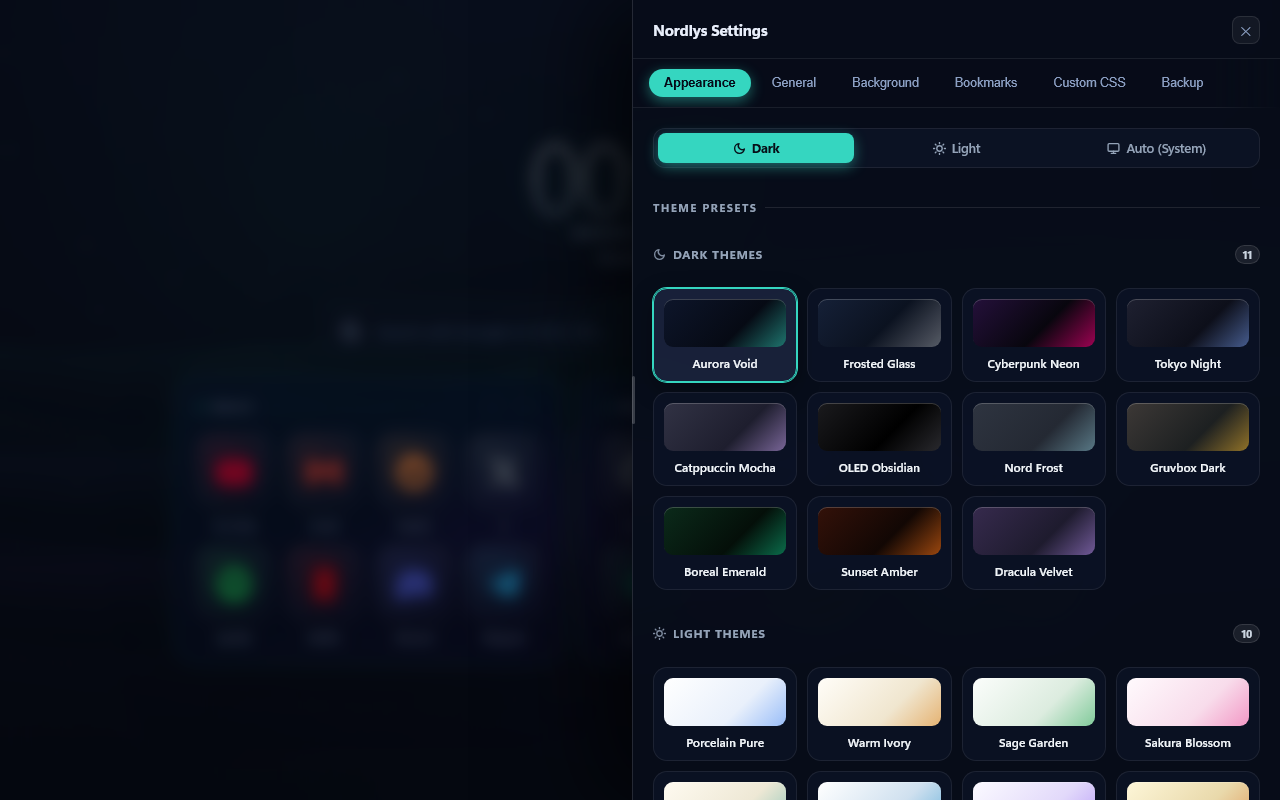
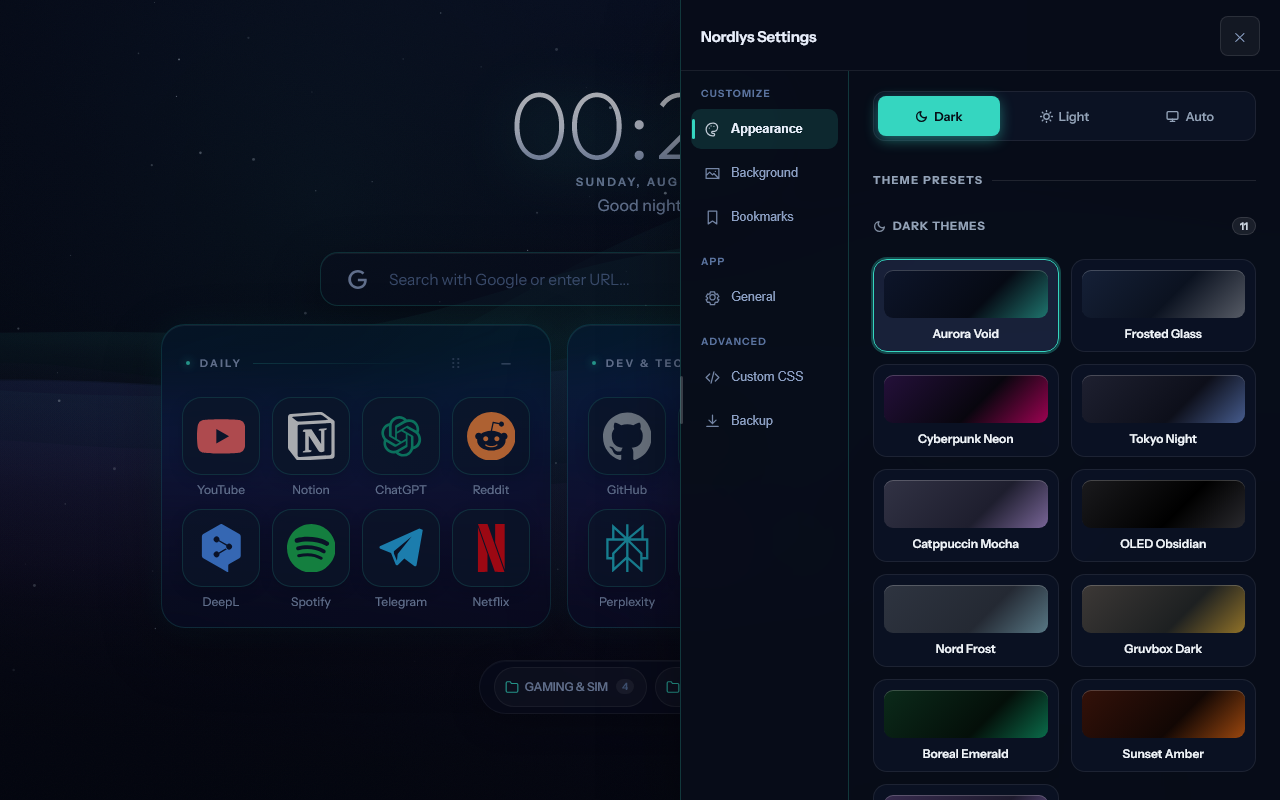
release: 2.2.0 listing, artwork and docs
Regenerates every store asset from the running extension rather than editing
last release's PNGs, so the artwork cannot claim something the product no
longer does. The old set still showed the engine dropdown and the pre-redesign
settings panel.

The listing copy moves into docs/store-listing.md as text to paste, and the
store guide points at it instead of holding a second, drifting copy. The guide
also pointed at a directory named aurora-tab that has not existed since the
rebrand.

Also shortens the colour-mode label, which wrapped to two lines and said
'(System)' next to a monitor icon, and replaces the wallpaper and video scene
placeholders, which were identical diagonal stripes that read as a broken
texture.

diff --git a/src/js/i18n.js b/src/js/i18n.js
@@ -201,7 +201,8 @@ const translations = {
     "appearance.colorMode": "Color Scheme Mode",
     "appearance.modeDark": "Dark",
     "appearance.modeLight": "Light",
-    "appearance.modeAuto": "Auto (System)",
+    "appearance.modeAuto": "Auto",
+    "appearance.modeAutoHint": "Follows your system setting",
     "appearance.cardStudioTitle": "✦ Card & Bookmark Aesthetics",
     "appearance.surfaceGlass": "Glass & Surface Material",
     "appearance.cardGlow": "Ambient Glow & Shadows",
@@ -416,7 +417,8 @@ const translations = {
     "appearance.colorMode": "Цветовая схема",
     "appearance.modeDark": "Тёмный",
     "appearance.modeLight": "Светлый",
-    "appearance.modeAuto": "Авто (Системный)",
+    "appearance.modeAuto": "Авто",
+    "appearance.modeAutoHint": "Следует настройке системы",
     "appearance.cardStudioTitle": "✦ Кастомизация карточек и закладок",
     "appearance.surfaceGlass": "Стекло и материал поверхности",
     "appearance.cardGlow": "Свечение и глубина теней",
@@ -631,7 +633,8 @@ const translations = {
     "appearance.colorMode": "Esquema de Color",
     "appearance.modeDark": "Oscuro",
     "appearance.modeLight": "Claro",
-    "appearance.modeAuto": "Automático (Sistema)",
+    "appearance.modeAuto": "Automático",
+    "appearance.modeAutoHint": "Sigue la configuración del sistema",
     "appearance.cardStudioTitle": "✦ Estética de Tarjetas y Marcadores",
     "appearance.surfaceGlass": "Cristal y Material de Superficie",
     "appearance.cardGlow": "Sombra y Brillo Ambiental",
@@ -846,7 +849,8 @@ const translations = {
     "appearance.colorMode": "Farbschema",
     "appearance.modeDark": "Dunkel",
     "appearance.modeLight": "Hell",
-    "appearance.modeAuto": "Automatisch (System)",
+    "appearance.modeAuto": "Automatisch",
+    "appearance.modeAutoHint": "Folgt der Systemeinstellung",
     "appearance.cardStudioTitle": "✦ Karten- & Lesezeichen-Design",
     "appearance.surfaceGlass": "Glas- & Oberflächenmaterial",
     "appearance.cardGlow": "Umgebungsschatten & Glanz",
@@ -1061,7 +1065,8 @@ const translations = {
     "appearance.colorMode": "Schéma de Couleur",
     "appearance.modeDark": "Sombre",
     "appearance.modeLight": "Clair",
-    "appearance.modeAuto": "Automatique (Système)",
+    "appearance.modeAuto": "Automatique",
+    "appearance.modeAutoHint": "Suit le réglage du système",
     "appearance.cardStudioTitle": "✦ Esthétique des Cartes et Signets",
     "appearance.surfaceGlass": "Matériau de Verre et Surface",
     "appearance.cardGlow": "Ombre et Lueur Ambiante",
@@ -1276,7 +1281,8 @@ const translations = {
     "appearance.colorMode": "カラースキーム",
     "appearance.modeDark": "ダーク",
     "appearance.modeLight": "ライト",
-    "appearance.modeAuto": "自動（システム）",
+    "appearance.modeAuto": "自動",
+    "appearance.modeAutoHint": "システム設定に従います",
     "appearance.cardStudioTitle": "✦ カード＆ブックマーク設定",
     "appearance.surfaceGlass": "ガラスと表面マテリアル",
     "appearance.cardGlow": "アンビエントシャドウ＆発光",
@@ -1491,7 +1497,8 @@ const translations = {
     "appearance.colorMode": "颜色方案",
     "appearance.modeDark": "深色",
     "appearance.modeLight": "浅色",
-    "appearance.modeAuto": "自动（跟随系统）",
+    "appearance.modeAuto": "自动",
+    "appearance.modeAutoHint": "跟随系统设置",
     "appearance.cardStudioTitle": "✦ 卡片与书签外观美化",
     "appearance.surfaceGlass": "玻璃与表面材质",
     "appearance.cardGlow": "环境阴影与光晕",
@@ -1706,7 +1713,8 @@ const translations = {
     "appearance.colorMode": "Renk Düzeni",
     "appearance.modeDark": "Koyu",
     "appearance.modeLight": "Açık",
-    "appearance.modeAuto": "Otomatik (Sistem)",
+    "appearance.modeAuto": "Otomatik",
+    "appearance.modeAutoHint": "Sistem ayarını izler",
     "appearance.cardStudioTitle": "✦ Kart ve Yer İşareti Tasarımı",
     "appearance.surfaceGlass": "Cam ve Yüzey Malzemesi",
     "appearance.cardGlow": "Ortam Gölgesi ve Parıltı",

diff --git a/src/css/settings.css b/src/css/settings.css
@@ -1893,12 +1893,31 @@ html[data-theme="warm-ivory"] .css-docs-list code {
     var(--nl-canvas);
 }
 .scene-preview[data-scene="solid"] { background: var(--nl-canvas); }
+/* These two slots have nothing to preview until the user supplies a file. The
+   placeholder stripes that stood here read as a broken texture and looked the
+   same for both; a picture and a play mark say what each slot takes. */
 .scene-preview[data-scene="custom-image"],
 .scene-preview[data-scene="custom-video"] {
-  background:
-    linear-gradient(135deg, color-mix(in srgb, var(--nl-text-primary) 16%, transparent) 25%, transparent 25%) -8px 0/16px 16px,
-    linear-gradient(225deg, color-mix(in srgb, var(--nl-text-primary) 16%, transparent) 25%, transparent 25%) -8px 0/16px 16px,
-    var(--nl-canvas);
+  position: relative;
+  background: var(--nl-canvas);
+  color: color-mix(in srgb, var(--nl-text-primary) 30%, transparent);
+}
+.scene-preview[data-scene="custom-image"]::before {
+  content: "";
+  position: absolute; left: 26%; top: 24%; width: 11%; aspect-ratio: 1;
+  border-radius: 50%; background: currentColor;
+}
+.scene-preview[data-scene="custom-image"]::after {
+  content: "";
+  position: absolute; inset: 44% 22% 28%;
+  background: currentColor;
+  clip-path: polygon(0 100%, 32% 18%, 57% 100%, 44% 100%, 71% 40%, 100% 100%);
+}
+.scene-preview[data-scene="custom-video"]::after {
+  content: "";
+  position: absolute; left: 43%; top: 34%; width: 16%; aspect-ratio: 1;
+  background: currentColor;
+  clip-path: polygon(0 0, 100% 50%, 0 100%);
 }
 .scene-name { overflow: hidden; text-overflow: ellipsis; white-space: nowrap; }
 .scene-block { display: grid; gap: 10px; margin-bottom: 6px; }

diff --git a/newtab.html b/newtab.html
@@ -112,7 +112,7 @@
             </svg>
             <span data-i18n="appearance.modeLight">Light</span>
           </button>
-          <button type="button" class="mode-btn" data-mode="auto">
+          <button type="button" class="mode-btn" data-mode="auto" title="Follows your system setting" data-i18n-title="appearance.modeAutoHint">
             <svg width="13" height="13" viewBox="0 0 24 24" fill="none" stroke="currentColor" stroke-width="2.5" stroke-linecap="round" stroke-linejoin="round">
               <rect x="2" y="3" width="20" height="14" rx="2" ry="2"></rect>
               <line x1="8" y1="21" x2="16" y2="21"></line>

diff --git a/src/js/app.js b/src/js/app.js
@@ -3,7 +3,7 @@
    ═══════════════════════════════════════════════════════════════════ */
 
 const DEFAULT_CONFIG = {
-  version: "2.1.0",
+  version: "2.2.0",
   theme: "aurora-void",
   colorMode: "dark",
   bgMode: "aurora",

diff --git a/docs/store-listing.md b/docs/store-listing.md
@@ -1,0 +1,82 @@
+# Chrome Web Store listing
+
+The exact text to paste into the Developer Dashboard. Keep this file and the
+dashboard in step; when one changes, change the other.
+
+## Title
+
+```
+Nordlys: Aurora Glass New Tab
+```
+
+Matches `manifest.json`. Renaming a published item costs recognition, so leave
+it alone unless there is a reason beyond taste.
+
+## Summary (132 characters maximum)
+
+```
+A new tab page with 21 themes, animated canvas scenes, bookmark folders you arrange yourself, and search that does arithmetic.
+```
+
+126 characters. Identical to the `description` field in `manifest.json`.
+
+## Category
+
+Productivity.
+
+## Detailed description
+
+```
+Nordlys replaces the new tab page. It opens instantly, keeps everything on your machine, and is meant to be looked at rather than got past.
+
+Bookmarks live in folders you arrange yourself. Drag a tile into another folder, drag folders around, pull a corner to change how many columns a folder has, fold the ones you rarely open into a dock at the bottom. Right click anything to edit it in place.
+
+Icons come from a built-in vector set that recognises most sites by domain, or from a favicon, an image URL, a local file, or a monogram. A black logo on a black theme used to disappear. Nordlys now measures every icon against the plate behind it and re-tones only the ones that would vanish, so coloured logos keep their colour. You can override that decision on any bookmark.
+
+21 themes, 11 dark and 10 light. Each one sets the background, the glass tint and the colours of the canvas behind it, so Gruvbox gets an amber sky and OLED Obsidian stays properly black. Follow the system, or pin it to dark or light. If none of the 21 fit, build your own in the theme studio or write CSS directly.
+
+Type is split into three slots: the clock and headings, the interface, and monospace. Choose from the bundled faces or from the fonts already installed on your computer.
+
+Four canvas scenes: Aurora, Cosmos, Mesh and Particles. Motion and Atmosphere sliders apply to all of them, so the background can be a slow shimmer or almost nothing. Your own image or a looping video works too, stored locally.
+
+Search covers ten engines with bang shortcuts, mixes in your own bookmarks and recent searches, and does arithmetic: type 45 * 12 + sqrt(144) and the answer sits above the suggestions.
+
+No account, no analytics, no telemetry, no remote code. Settings and bookmarks live in local storage, and the only requests are search suggestions from the engine you chose and the favicons you ask for. Export the lot to JSON whenever you want.
+
+Available in English, Russian, Spanish, German, French, Japanese, Chinese and Turkish.
+
+Open source under the MIT licence: https://github.com/sa1ntsinner/nordlys-tab
+```
+
+## Privacy practices
+
+Answer the dashboard's justification fields from `PRIVACY.md`:
+
+| Field | Answer |
+| --- | --- |
+| Single purpose | Replaces the new tab page with a customisable start page. |
+| `storage` | Saves bookmarks, themes and settings on the device. |
+| `unlimitedStorage` | Holds user wallpaper images and video loops in IndexedDB. |
+| `favicon` | Draws site icons from Chrome's local favicon cache. |
+| Host permissions | Search-suggestion endpoints for the ten engines, plus `images.weserv.nl` when a pasted icon URL blocks cross-origin loading. |
+| Remote code | None. The CSP is `script-src 'self'; object-src 'self'`. |
+| Data collection | None. Declare no collected data. |
+
+Privacy policy URL: the raw `PRIVACY.md` on GitHub.
+
+## Artwork
+
+Everything in `docs/store-assets/` is generated from the running extension by
+`tests/ui/__t-store-shots.spec.cjs` and `tests/ui/__t-promo.spec.cjs`, so it
+cannot drift from what the product renders. Both are throwaway specs the gate
+ignores; run them with the sweeps config.
+
+| File | Size | Shows |
+| --- | --- | --- |
+| `screenshot-1-aurora.png` | 1280x800 | The board on the Aurora scene, with two folders in the dock |
+| `screenshot-2-themes.png` | 1280x800 | Settings, Appearance: the 11 dark theme presets |
+| `screenshot-3-scenes.png` | 1280x800 | Settings, Background: scene cards with Motion and Atmosphere |
+| `screenshot-4-light.png` | 1280x800 | The same board on Nordic Snow |
+| `screenshot-5-search.png` | 1280x800 | The search bar answering `45 * 12 + sqrt(144)` |
+| `promo-marquee-1400x560.png` | 1400x560 | Marquee tile |
+| `promo-small-440x280.png` | 440x280 | Small tile |

diff --git a/README.md b/README.md
@@ -20,14 +20,16 @@ I wanted a start page as fast as Tabliss and as customizable as nightTab, and ne
 | :---: | :---: | :---: |
 | ![Gruvbox](docs/assets/theme-gruvbox-dark.png) | ![OLED](docs/assets/theme-oled.png) | ![Mint](docs/assets/theme-mint.png) |
 
-There's a Dark / Light / Auto switch (Auto follows your OS and flips live), and a theme studio where you pick seven colors and a font and save the result as your own preset. If none of that is enough, a live CSS editor with a class reference is built in.
+There's a Dark / Light / Auto switch (Auto follows your OS and flips live), and a theme studio where you pick seven colors and save the result as your own preset. If none of that is enough, a live CSS editor with a class reference is built in.
 
 ## What else it does
 
 - **Bookmarks as folders.** Drag tiles between folders, drag whole folders around, resize a folder's column count by pulling its corner, fold folders into a small dock at the bottom. Right click anything to edit it in place.
 - **Icons your way.** A built-in vector library with auto-detection by domain, site favicons, any image URL, a local file, or a monogram. There's a small cropper studio with pan, zoom, and rotate for when a logo comes with junk around it.
 - **Search that does math.** Type `45 * 12 + sqrt(144)` and the answer appears above the suggestions, one click to copy. Ten engines to pick from (Google, DuckDuckGo, Bing, Brave, Ecosia, Yandex, YouTube, GitHub, Reddit, Wikipedia), bang shortcuts like `!gh` and `!w`, plus your own bookmarks and recent searches in the same dropdown.
-- **Backgrounds.** Four canvas modes (aurora, starfield, mesh orbs, pointer-following dust), or your own image / looping video stored locally in IndexedDB, with blur and dim sliders.
+- **Backgrounds.** Four canvas scenes (Aurora, Cosmos, Mesh, Particles), picked from cards rather than a list of engine names. Motion and Atmosphere sliders apply to all of them, so the same scene can be a slow shimmer or almost nothing. Your own image or looping video works too, stored locally in IndexedDB, with blur and dim sliders.
+- **Type.** Three slots: the clock and headings, the interface, and monospace. Bundled faces, or the fonts already installed on your machine.
+- **Icons that stay visible.** Each icon is measured against the plate behind it, and only the ones that would vanish get re-toned, so a coloured logo keeps its colour and a black mark on a black theme doesn't disappear. Overridable per bookmark.
 - **Glass tuning.** Blur radius, saturation, translucency, border sheen, corner radius, tile size, grid spacing, icon shape, glow, hover animation. Every slider updates the page while you drag it.
 - **8 languages.** English, Russian, Spanish, German, French, Japanese, Chinese, Turkish.
 - **Import and export.** Netscape HTML bookmarks from any browser in, JSON or HTML back out.

diff --git a/docs/CHROME_STORE_GUIDE.md b/docs/CHROME_STORE_GUIDE.md
@@ -1,10 +1,10 @@
-# 🌐 Chrome Web Store & Developer Publication Guide
+# Chrome Web Store publication guide
 
 This document guides you through testing Nordlys locally and publishing it to the Chrome Web Store.
 
 ---
 
-## 🛠 Step 1: Load Locally in Developer Mode
+## Step 1: load locally in developer mode
 
 You can test Nordlys in any Chromium browser (Google Chrome, Brave, Microsoft Edge, Arc, Opera, Vivaldi):
 
@@ -16,13 +16,13 @@ You can test Nordlys in any Chromium browser (Google Chrome, Brave, Microsoft Ed
 3. Click the **Load unpacked** button (top left).
 4. Select the project folder:
    ```
-   C:\Users\smile\Sync Docs\Important Stuff\aurora-tab
+   C:\Users\smile\Sync Docs\Important Stuff\Nordlys
    ```
 5. Open a new tab (`Ctrl + T`) to see Nordlys in action!
 
 ---
 
-## 📦 Step 2: Packaging for Chrome Web Store
+## Step 2: package for the Chrome Web Store
 
 To upload to the Chrome Web Store Developer Dashboard, you need a single `.zip` file containing the extension files.
 
@@ -33,26 +33,24 @@ Run this from the repository root. List the shipped paths explicitly — a wildc
 producing a ~40 MB upload instead of ~600 KB.
 
 ```powershell
-Compress-Archive -Path manifest.json, newtab.html, PRIVACY.md, README.md, LICENSE, icons, src -DestinationPath nordlys-v2.1.0.zip -Force
+Compress-Archive -Path manifest.json, newtab.html, PRIVACY.md, README.md, LICENSE, icons, src -DestinationPath nordlys-v2.2.0.zip -Force
 ```
 
 Verify before uploading — `manifest.json` must sit at the zip root and nothing
 else should be present:
 
 ```powershell
-Expand-Archive nordlys-v2.1.0.zip -DestinationPath .\zip-check -Force; Get-ChildItem .\zip-check
+Expand-Archive nordlys-v2.2.0.zip -DestinationPath .\zip-check -Force; Get-ChildItem .\zip-check
 ```
 
 ---
 
-## 🚀 Step 3: Chrome Web Store Developer Dashboard
+## Step 3: the developer dashboard
 
 1. Visit the [Chrome Web Store Developer Dashboard](https://chrome.google.com/webstore/devconsole).
 2. Sign in with your Google account (one-time $5 developer registration fee if new).
-3. Click **Add new item** and upload `nordlys-v2.1.0.zip`.
-4. Fill in Store Listing Details:
-   - **Title**: `Nordlys - Aesthetic Glass Startpage`
-   - **Summary**: `Aesthetic, ultra-fast New Tab startpage featuring dynamic Aurora Borealis shaders, Liquid Glass themes, and smart bookmarking.`
-   - **Category**: `Productivity` / `Fun`
-   - **Privacy Policy**: Mention that 0 data is collected externally and all bookmarks/settings remain 100% local on user device.
+3. Click **Add new item** and upload `nordlys-v2.2.0.zip`.
+4. Fill in the listing from [store-listing.md](store-listing.md), which holds the
+   title, summary, description, artwork inventory and the privacy answers as
+   text to paste. Do not retype them here; one copy is enough.
 5. Click **Submit for Review**.

diff --git a/RELEASE_GUIDE.md b/RELEASE_GUIDE.md
@@ -27,8 +27,8 @@ git push
 Tag a release when publishing a new store version:
 
 ```powershell
-git tag -a v2.1.0 -m "Release v2.1.0 - First Public Beta"
-git push origin v2.1.0
+git tag -a v2.2.0 -m "Release v2.2.0"
+git push origin v2.2.0
 ```
 
 ---
@@ -39,10 +39,10 @@ Google Chrome Web Store requires a `.zip` archive where `manifest.json` is at th
 
 ### On Windows (PowerShell), from inside the project directory:
 ```powershell
-Compress-Archive -Path manifest.json, newtab.html, PRIVACY.md, README.md, LICENSE, icons, src -DestinationPath nordlys-v2.1.0.zip -Force
+Compress-Archive -Path manifest.json, newtab.html, PRIVACY.md, README.md, LICENSE, icons, src -DestinationPath nordlys-v2.2.0.zip -Force
 ```
 
-This generates `nordlys-v2.1.0.zip` ready for upload.
+This generates `nordlys-v2.2.0.zip` ready for upload.
 
 ---
 
@@ -59,7 +59,7 @@ This generates `nordlys-v2.1.0.zip` ready for upload.
 ## 🏪 Step 4: Fill Store Listing in Developer Dashboard
 
 1. In the [Developer Dashboard](https://chrome.google.com/webstore/devconsole), click **`+ New Item`**.
-2. Upload `nordlys-v2.1.0.zip`.
+2. Upload `nordlys-v2.2.0.zip`.
 
 ### 4.1 Store Listing Details
 - **Title**: `Nordlys — Aesthetic Glass Dashboard` (Max 45 chars)

diff --git a/PRIVACY.md b/PRIVACY.md
@@ -1,8 +1,8 @@
 # Privacy Policy for Nordlys
 
 **Effective Date:** August 16, 2026
-**Last Updated:** August 16, 2026
-**Version:** 2.1.0
+**Last Updated:** August 30, 2026
+**Version:** 2.2.0
 
 Nordlys ("the extension", "we", or "our") is designed with a strict **Privacy-by-Architecture** principle. Nordlys is a client-side, offline-capable New Tab override extension.
 
